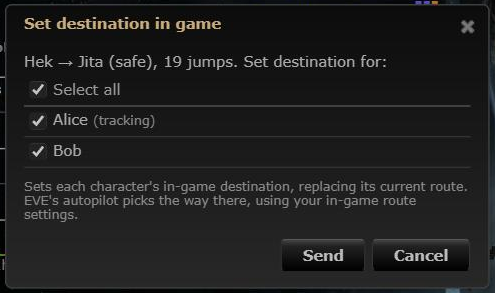
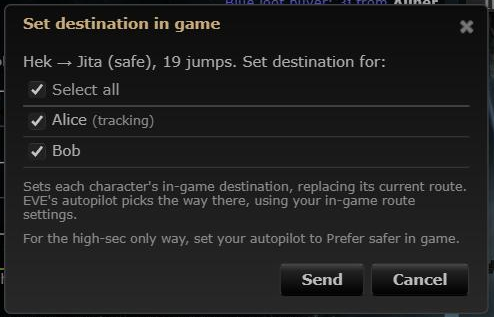
Set destination: safe-route hint in picker, no jump count for jump drive targets, review wording

diff --git a/app/js/fork/autopilot-route.js b/app/js/fork/autopilot-route.js
@@ -92,10 +92,11 @@ const autopilotRoute = {
 		return leg.length < 2 ? null : { destID: leg[leg.length - 1], from: leg[0], jumps: leg.length - 1 };
 	},
 
-	/** Toast text once the destination is set: "Destination set in game: Jita for Alice and Bob (19 jumps from Hek)" */
+	/** Toast text once the destination is set: "Destination set in game: Jita for Alice and Bob (19 jumps from Hek)".
+	jumps null: no jump count (e.g. a jump drive target, where gate jumps say nothing) */
 	doneText: function(dest, who, jumps, from) {
-		return "Destination set in game: " + dest + " for " + who + " (" + jumps + " jump" + (jumps === 1 ? "" : "s")
-			+ (from ? " from " + from : "") + ")";
+		return "Destination set in game: " + dest + " for " + who + (jumps === null || jumps === undefined ? ""
+			: " (" + jumps + " jump" + (jumps === 1 ? "" : "s") + (from ? " from " + from : "") + ")");
 	},
 
 	/** The gate leg of a Favourites panel plan. Direct: from where you are. Through the chain: from the system you
@@ -135,7 +136,7 @@ const autopilotRoute = {
 	errorText: function(error) {
 		const status = error && error.status;
 		if (status === 401 || status === 403) {
-			return "EVE refused it: the login has expired or lacks the autopilot waypoint permission. Log in again with EVE SSO.";
+			return "EVE refused it: the login has expired or lacks the permission to set your destination. Log in again with EVE SSO.";
 		}
 		if (status === 420 || status === 429) { return "ESI is rate limiting requests. Try again in a minute."; }
 		if (!status) { return "Could not reach ESI."; }
@@ -304,14 +305,15 @@ if (typeof window !== "undefined" && typeof document !== "undefined" && typeof j
 		}
 
 		/** Ask which characters get the destination. onSend([character]) runs only on Send, with at least one character. */
-		function pickCharacters(label, jumps, onSend) {
+		function pickCharacters(label, jumps, safe, onSend) {
 			const list = ap.characters(options, tripwire.esi && tripwire.esi.characters);
 			const error = ap.noCharacterError(list);
 			if (error) { notify(ap.escape(error), "red", 8000); return; }
 			const $dialog = ensureDialog();
 			pending = { list: list, onSend: onSend };
-			$dialog.find(".autopilot-chars-route").html(ap.escape(label) + ", " + jumps + " jump"
-				+ (jumps === 1 ? "" : "s") + ". Set destination for:");
+			$dialog.find(".autopilot-chars-route").html(ap.escape(label)
+				+ (jumps === null ? "" : ", " + jumps + " jump" + (jumps === 1 ? "" : "s")) + ". Set destination for:");
+			$dialog.find(".autopilot-chars-safe").toggle(!!safe);
 			$dialog.find(".autopilot-chars-list").html(list.map(function(c) {
 				return "<li class='autopilot-chars-row" + (c.usable ? "" : " disabled") + "'><label>"
 					+ "<input type='checkbox' value='" + ap.escape(c.characterID) + "'" + (c.preselected ? " checked" : "")
@@ -326,11 +328,15 @@ if (typeof window !== "undefined" && typeof document !== "undefined" && typeof j
 		}
 
 		/** Set the end of a route's gate leg as the in-game destination of the characters picked in the dialog */
-		function push(path, label) {
+		/** opts: {safe: the route is Tripwire's high-sec only one (the picker says to set Prefer safer in game),
+		noJumps: leave the jump count out (a jump drive target: EVE's gate route there is something else)} */
+		function push(path, label, opts) {
+			opts = opts || {};
 			if (busy) { notify("Still setting the previous destination, one moment.", "yellow", 4000); return; }
 			const target = ap.destination(path, appData.systems);	// never wormhole space (the autopilot can't route there)
 			if (!target) { notify("Nothing to set: no gate jumps on this route.", "yellow", 5000); return; }
-			pickCharacters(label, target.jumps, function(targets) {
+			if (opts.noJumps) { target.jumps = null; }
+			pickCharacters(label, target.jumps, opts.safe, function(targets) {
 				if (busy) { notify("Still setting the previous destination, one moment.", "yellow", 4000); return; }
 				send(targets, target);
 			});
@@ -435,14 +441,14 @@ if (typeof window !== "undefined" && typeof document !== "undefined" && typeof j
 				const index = Number($(this).data("leg")) || 0;
 				const scoutLeg = ap.scoutLeg(plan, index);
 				if (scoutLeg.error) { notify(ap.escape(scoutLeg.error), "yellow", 5000); return; }
-				push(scoutLeg.path, scoutLabel(plan, index, id, flags.route === "safe"));
+				push(scoutLeg.path, scoutLabel(plan, index, id, flags.route === "safe"), { safe: flags.route === "safe" });
 				return;
 			}
 			const leg = ap.favouriteLeg(plan, trackedSystem(), id, function(from, to, safe) {
 				return ap.gatePath(gateMap(), appData.systems, from, to, safe, avoidList());
 			});
 			if (leg.error) { notify(ap.escape(leg.error), "yellow", 5000); return; }
-			push(leg.path, systemName(leg.from) + " → " + systemName(id) + (flags.route === "safe" ? " (safe)" : ""));
+			push(leg.path, systemName(leg.from) + " → " + systemName(id) + (flags.route === "safe" ? " (safe)" : ""), { safe: flags.route === "safe" });
 		}
 
 		// ---- Destinations window: a button in each row ----
@@ -510,6 +516,7 @@ if (typeof window !== "undefined" && typeof document !== "undefined" && typeof j
 				+ "<div class='autopilot-chars-tools'><label><input type='checkbox' class='autopilot-chars-all' /> Select all</label></div>"
 				+ "<ul class='autopilot-chars-list'></ul>"
 				+ "<p class='autopilot-chars-hint'>Sets each character's in-game destination, replacing its current route. EVE's autopilot picks the way there, using your in-game route settings.</p>"
+				+ "<p class='autopilot-chars-hint autopilot-chars-safe'>For the high-sec only way, set your autopilot to Prefer safer in game.</p>"
 				+ "</div>");
 			$("#" + DIALOG_ID).on("change", ".autopilot-chars-all", function() {
 				$("#" + DIALOG_ID + " .autopilot-chars-list input:enabled").prop("checked", this.checked);

diff --git a/app/js/fork/region-map-view.js b/app/js/fork/region-map-view.js
@@ -416,7 +416,7 @@ if (typeof window !== "undefined" && typeof document !== "undefined" && typeof j
 				"<div class='rm-card-head'><b>" + e(sys.name) + "</b> <span class='rm-sec' style='color:" + rm.secColour(sys.security) + "'>" + rm.secText(sys.security) + "</span>"
 				+ "<button class='rm-card-close' title='Close' aria-label='Close'>&times;</button></div>" + lines.join("")
 				+ "<div class='rm-card-buttons'><button class='rm-dest' title='Set as the in-game destination (clears other waypoints)'>Set destination</button> "
-				+ "<button class='rm-route-btn' title='Set this system as the in-game destination for the characters you pick'>Set route in game</button> "
+				+ "<button class='rm-route-btn' title='Set this system as the in-game destination for the characters you pick'>Set destination for...</button> "
 				+ "<button class='rm-view' title='Open this system in Tripwire'>View in Tripwire</button></div>"
 			);
 		}

diff --git a/app/js-test/fork/autopilot-route.test.js b/app/js-test/fork/autopilot-route.test.js
@@ -157,6 +157,8 @@ describe('Set destination in game', () => {
 			'Destination set in game: Jita for Alice and Bob (19 jumps from Hek)'));
 		it('Done text, one jump', () => assert.equal(autopilotRoute.doneText('Jita', 'Alice', 1, 'Perimeter'),
 			'Destination set in game: Jita for Alice (1 jump from Perimeter)'));
+		it('Done text without a jump count (jump drive target)', () => assert.equal(autopilotRoute.doneText('Jita', 'Alice', null, 'Perimeter'),
+			'Destination set in game: Jita for Alice'));
 		it('All set', () => assert.deepEqual(autopilotRoute.summary([ok('Alice'), ok('Bob')], 'Jita', 19, 'Hek'),
 			{ color: 'green', lines: ['Destination set in game: Jita for Alice and Bob (19 jumps from Hek)'] }));
 		it('Some failed: who succeeded, who failed and why', () => assert.deepEqual(

diff --git a/app/js/fork/jump-planner.js b/app/js/fork/jump-planner.js
@@ -2126,7 +2126,7 @@ if (typeof window !== "undefined" && typeof document !== "undefined" && typeof j
 			}
 			// Get home: the jumps start at the chosen start, not at an exit
 			const from = state.last && state.last.home ? state.last.ctx.exitID : state.selected;
-			autopilotRoute.push([from, id], "Destination " + name(id) + " (jump from " + name(from) + ")");
+			autopilotRoute.push([from, id], "Destination " + name(id) + " (jump from " + name(from) + ")", { noJumps: true });
 		}
 
 		function copy(text, what) {

diff --git a/changes/2026-10-12-set-destination-only/README.md b/changes/2026-10-12-set-destination-only/README.md
@@ -31,11 +31,14 @@ fix/simplification of an existing action.
   picker, remembered selection, busy guard, per-character errors and the green/yellow/red summary stay; wording is
   now about the destination ("Hek → Jita (safe), 19 jumps. Set destination for:", "Destination set in game: Jita
   for Alice and Bob (19 jumps from Hek)"). Dialog title and tooltips say "Set destination in game"; the safe-route
-  tooltip says to use "Prefer safer" in game.
+  tooltip and the picker (for a safe route) say to set "Prefer safer" in game. The jump planner's target
+  leaves out the jump count (a jump drive jump says nothing about EVE's gate route there); the region map card's
+  second button is now "Set destination for..." (picks characters).
 - Removed the waypoint machinery: `MAX_WAYPOINTS`, `reach`, `waypoints`, `limit`, `sendAll`, `partialText`,
   `characterProgressText` and the per-waypoint progress toast. New pure helper `destination(path, systems)`.
-- Tooltips reworded in `thera-route.js` (`legTitle`), `skyhooks-panel.js`, `loot-buyers.js` and `region-map-view.js`
+- Tooltips reworded in `thera-route.js` (`legTitle`), `skyhooks-panel.js`, `loot-buyers.js` and `region-map-view.js`; ESI 401/403 text no longer mentions waypoints
   ("as your in-game destination").
+- `app/js/fork/jump-planner.js`: passes `{noJumps: true}` to `autopilotRoute.push`.
 - Tests: `app/js-test/fork/autopilot-route.test.js` (waypoint tests replaced by destination / one-call-per-character
   / summary tests), `app/js-test/fork/thera-route.test.js` (leg titles).
 - Upstream "Add Waypoint" menu items and the command palette's "Add waypoint" are unchanged.
